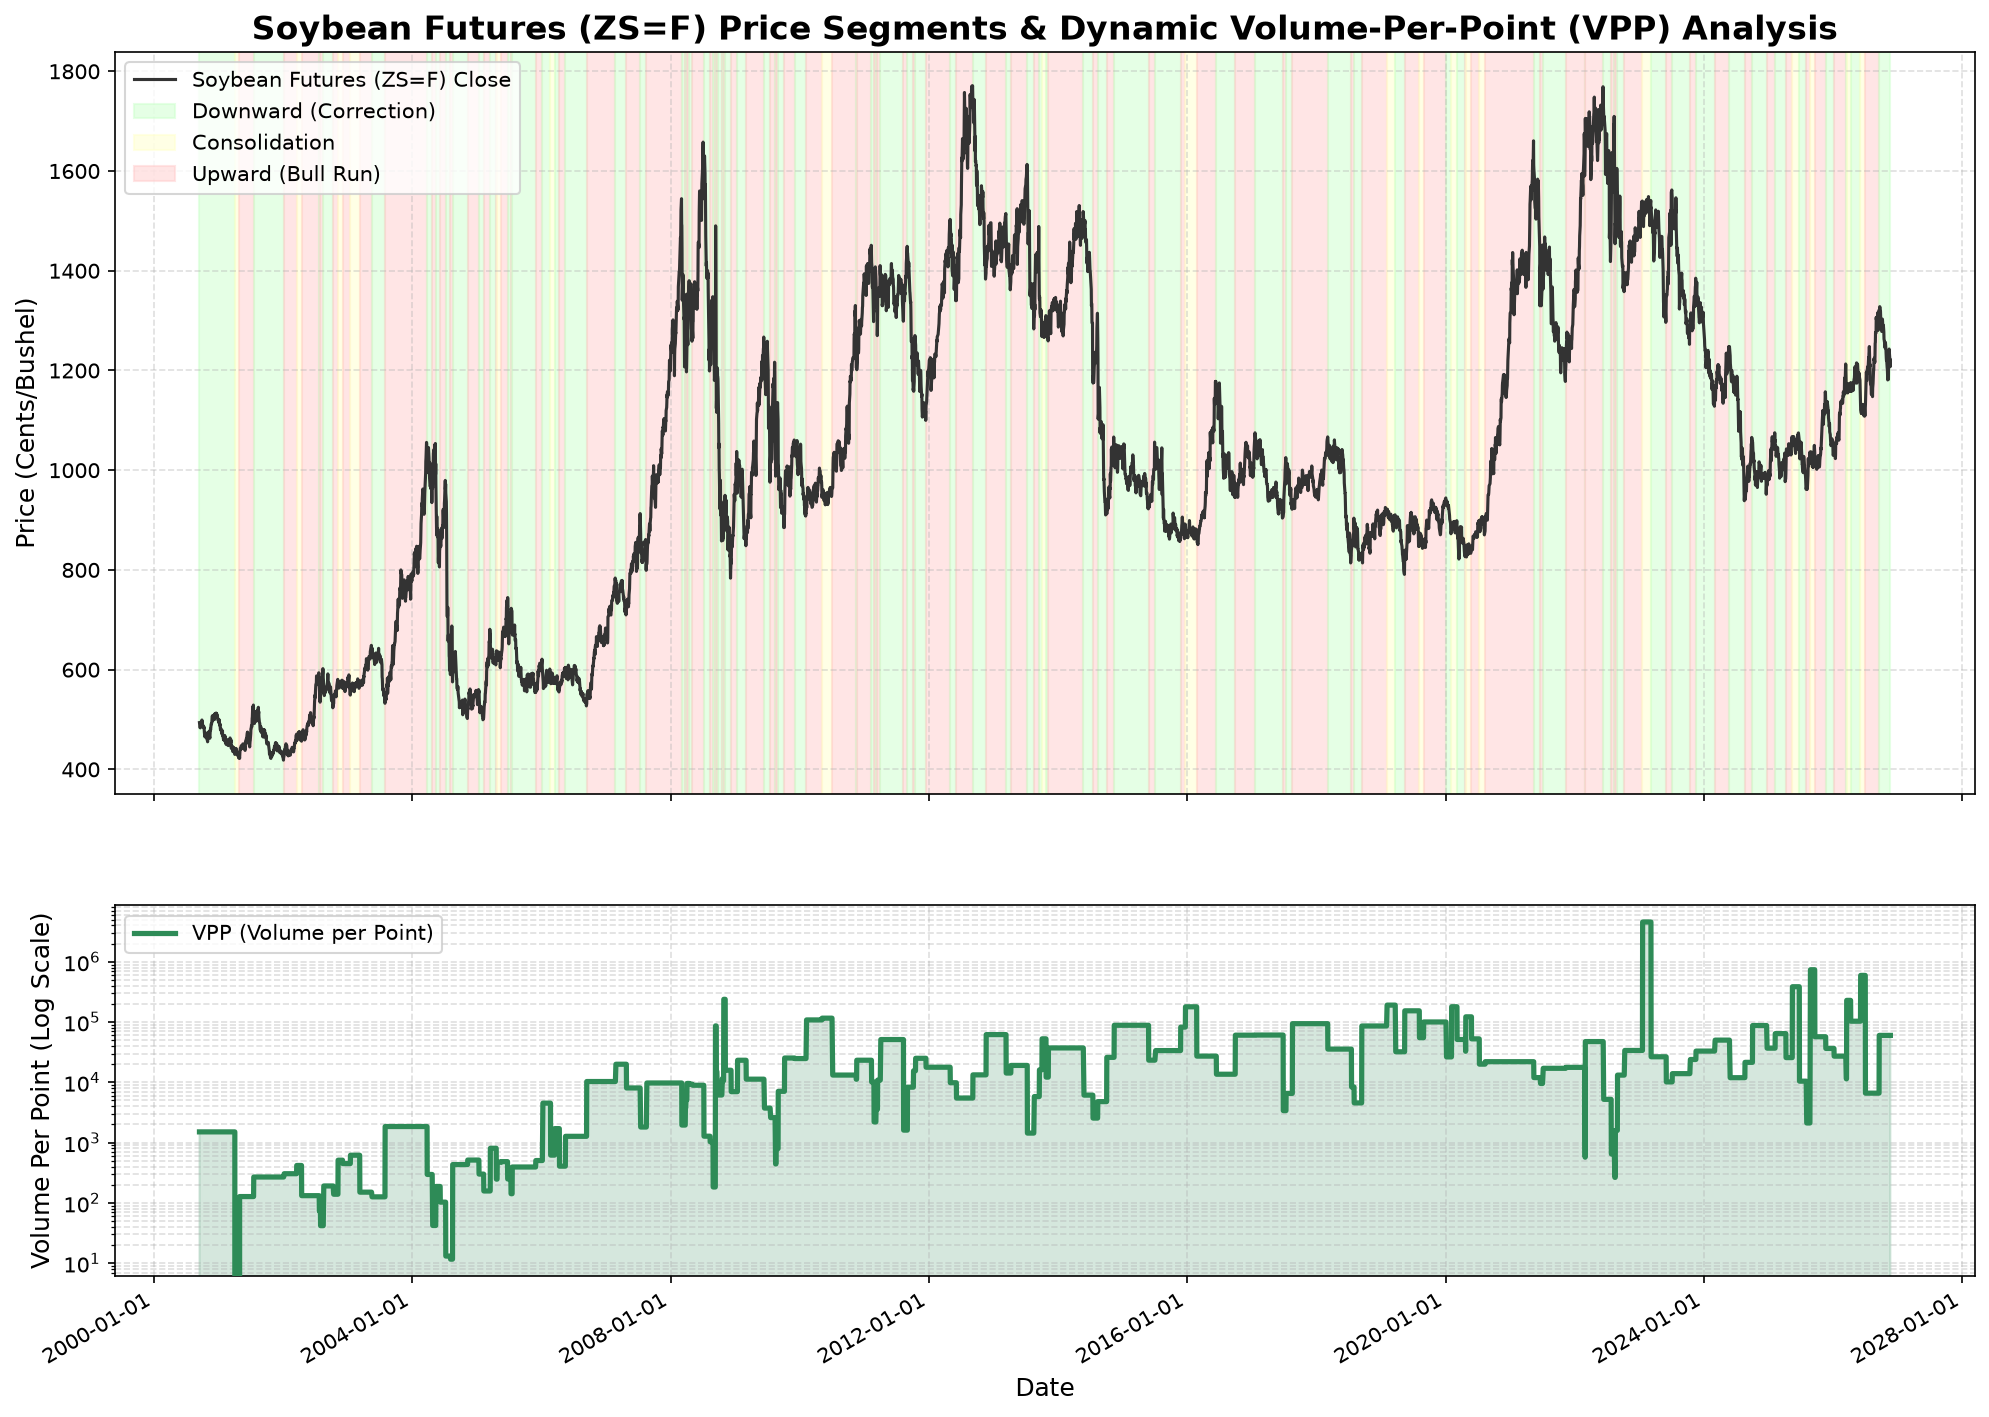
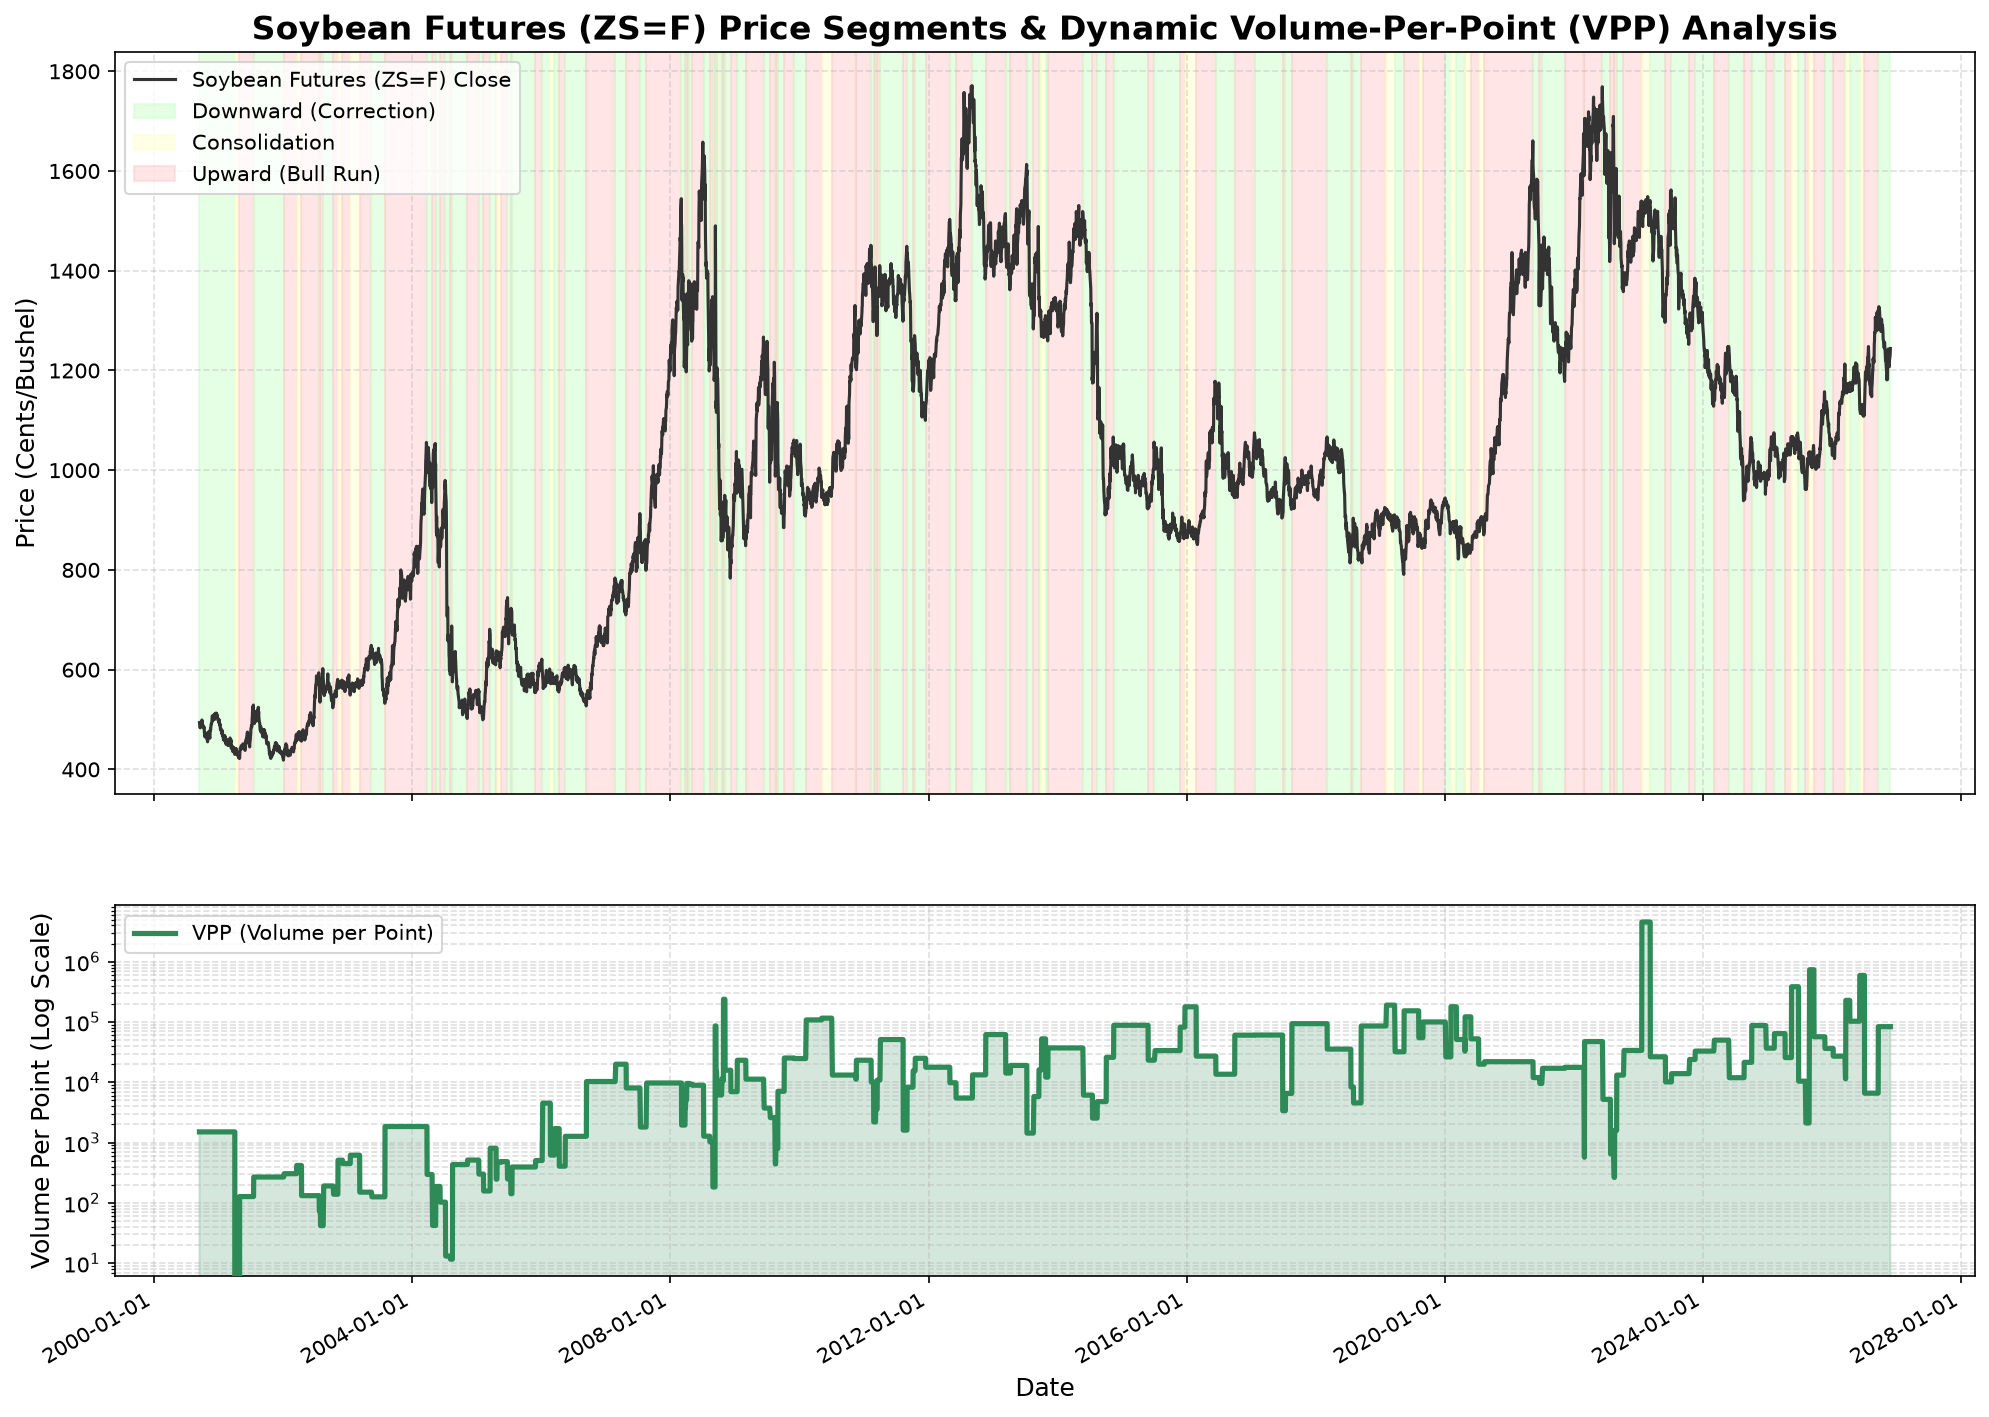
Auto-update soybean momentum report & analysis (2026-11-26)

diff --git a/soybean.html b/soybean.html
@@ -57,7 +57,7 @@
                     <i class="fa-solid fa-seedling text-emerald-500"></i> 黃豆期貨動能效率與波動對稱分析報告
                 </h1>
                 <p class="text-sm text-gray-400 mt-1">
-                    標的：黃豆期貨 (ZS=F) ｜ 模型：農產品大宗商品雙速量價動能模型 ｜ 更新日期：2026-11-23
+                    標的：黃豆期貨 (ZS=F) ｜ 模型：農產品大宗商品雙速量價動能模型 ｜ 更新日期：2026-11-26
                 </p>
             </div>
             <div class="flex items-center gap-3">
@@ -116,7 +116,7 @@
 ================================================================================
 【1. 量價效率分析 (Volume-Per-Point, VPP)】
   * 上漲波段: 平均移動 1 點需消耗 24,574 口/股之成交量
-  * 下跌波段: 平均移動 1 點需消耗 16,541 口/股之成交量
+  * 下跌波段: 平均移動 1 點需消耗 16,867 口/股之成交量
   * 盤整波段: 平均移動 1 點需消耗 391,263 口/股之成交量
   * 💡 學術結論：黃豆期貨盤整期 VPP 為趨勢期之數倍，籌碼高密集蓄能！
 --------------------------------------------------------------------------------
@@ -128,24 +128,24 @@
 --------------------------------------------------------------------------------
 【2. 波動等幅對稱與統計 (下跌修正波段)】
   * 歷史波段數: 73 次
-  * 平均幅度: -11.54% (中位數: -10.93%)
+  * 平均幅度: -11.52% (中位數: -10.93%)
   * 最大幅度: -39.33% | 最小幅度: 3.96%
-  * 平均持續天數: 37.9 天 (中位數: 28 天)
+  * 平均持續天數: 38.0 天 (中位數: 28 天)
 --------------------------------------------------------------------------------
 【3. 當前黃豆期貨波段評估與歷史波段對稱性機率落點與勝率列表】
   [長線大趨勢 (10% 門檻錨定)]
   * 當前波段類型: 下跌
   * 波段起始日期: 2026-09-17
   * 波段起始價格: 1319.75
-  * 當前價格 (2026-11-20): 1220.75
-  * 目前波段累計漲跌: -7.50%
-  * 目前已持續交易日: 46 天
+  * 當前價格 (2026-11-25): 1244.00
+  * 目前波段累計漲跌: -5.74%
+  * 目前已持續交易日: 49 天
 
   [短線動能預警 (3% 領先燈號)]
-  * 短線波段狀態: 短線拉回下跌
-  * 短線轉折日期: 2026-11-13 (基準價 1247.75)
-  * 短線累計漲跌: -2.16%
-  * 短線持續天數: 5 天
+  * 短線波段狀態: 短線止跌上漲
+  * 短線轉折日期: 2026-11-20 (基準價 1203.25)
+  * 短線累計漲跌: +3.39%
+  * 短線持續天數: 3 天
   * 前一波下跌段幅: 3.07% (對稱基準點)
 
   * 💡 歷史波段對稱性機率落點與勝率列表 (Win Rate Targets):
@@ -160,7 +160,7 @@
     50%                  | 0.9618          | 2.95            % | 1,280.78              | 🔴 已達成
     40%                  | 1.3186          | 4.05            % | 1,266.33              | 🔴 已達成
     30%                  | 1.4640          | 4.49            % | 1,260.43              | 🔴 已達成
-    20%                  | 2.1984          | 6.75            % | 1,230.68              | 🔴 已達成
+    20%                  | 2.0960          | 6.43            % | 1,234.83              | 🔴 已達成
     10%                  | 2.7466          | 8.43            % | 1,208.47              | 🔴 已達成
     -----------------------------------------------------------------------------------------------
 
